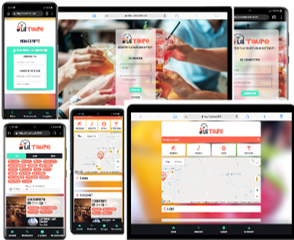
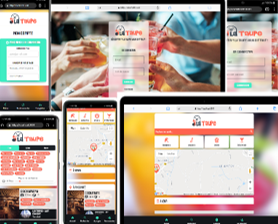
responsive realisations

diff --git a/src/components/realisations/realisations.scss b/src/components/realisations/realisations.scss
@@ -17,6 +17,15 @@
 
     @include tablet {
       font-size: 20px;
+      overflow: hidden;
+    }
+    @include desktop {
+      font-size: 23px;
+    overflow: hidden;
+    }
+    @include laptop {
+      font-size: 45px;
+      margin-top: 3rem;
     }
   }
 
@@ -37,6 +46,7 @@
       margin: 10px 0;
       flex-wrap: wrap;
       justify-content: center;
+      overflow: hidden;
     }
 
    
@@ -53,11 +63,15 @@
       width: 95%;
     }
     @include tablet {
-      width: 100%;
-      margin-top: 1rem;
+      width: 95%;
+      margin-top: 0.5rem;
     }
     @include desktop {
       width: 100%;
+      margin-top: 1rem;
+    }
+    @include laptop{
+      width: 93%;
       margin-top: 1rem;
     }
     .item {
@@ -65,7 +79,6 @@
       height: 260px;
       border-radius: 0px 20px 0px 20px;
       padding: 2px;
-
       margin: 10px 20px;
       display: flex;
       align-items: center;
@@ -80,15 +93,27 @@
       }
 
       @include tablet {
-        width: 200px;
-        height: 130px;
+        width: 240px;
+        height: 234px;
         padding: 0px;
+        margin: 5px 5px;
       }
+
+      
+
       @include desktop {
         width: 280px;
         height: 180px;
         padding: 0px;
       }
+
+      @include laptop {
+        width: 297px;
+        height: 215px;
+        padding: 0px;
+        margin: 10px 10px;
+      }
+     
       a {
         color: white;
         outline: none;
@@ -110,6 +135,9 @@
             position: absolute;
             top: 5px;
           }
+          @include laptop {
+            font-size: 20px;
+          }
 
           @include desktop {
             font-size: 18px;
@@ -118,7 +146,7 @@
         }
         h3:hover {
           border-bottom: 1px solid;
-          background-color: #78e08f;
+          background-color: #d16ba5;
           border-radius: 5px;
           padding: 4px;
           letter-spacing: 3px;
@@ -183,6 +211,9 @@
           font-size: 13px;
           padding: 10px;
         }
+        @include laptop {
+          font-size: 13px;
+        }
       }
       span {
         position: absolute;
@@ -198,13 +229,17 @@
 
         @include tablet {
           padding: 0;
-          font-size: 7px;
+          font-size: 9px;
           position: absolute;
-          bottom: 19px;
+          bottom: 39px;
         }
         @include desktop {
           bottom: 29px;
           font-size: 10px;
+        }
+        @include laptop {
+          font-size: 12px;
+          bottom: 28px;
         }
       }
 
@@ -218,7 +253,7 @@
 
         @include tablet {
           font-size: 9px;
-          visibility: hidden;
+          
         }
         @include desktop {
           bottom: 8px;
@@ -229,6 +264,7 @@
       }
 
       .enlace:hover {
+        font-size: 12px;
         border-bottom: 1px solid;
         position: absolute;
         bottom: 10px;

diff --git a/src/global.scss b/src/global.scss
@@ -1,38 +1,32 @@
 $mainColor: #0e5266;
 
-$width:768px;
-$mobile:480px;
+$width: 768px;
+$mobile: 480px;
 $tablet: 768px;
 $desktop: 1024;
-$desktop-width: 1540px; //1280
+$laptop: 1540px; //1280
 
 // une façon diferent d'utilisation de media queries globalement. il faudra importer le fichier global dans les composants
 @mixin mobile {
-    @media(max-width: #{$mobile}){
-        @content;
-    }
-    
+  @media (max-width: #{$mobile}) {
+    @content;
+  }
 }
-
-// @mixin tablet {
-//   @media(max-width: #{$tablet}){
-//       @content;
-//   }
-  
-// }
 
 @mixin tablet {
-  @media(min-width: #{$mobile}) and (max-width: #{$tablet}){
-      @content;
+  @media (min-width: #{$mobile}) and (max-width: #{$tablet - 1px}) {
+    @content;
   }
-  
 }
 
-
-
 @mixin desktop {
-    @media (min-width: #{$tablet}) and (max-width: #{$desktop - 1px}) {
-      @content;
-    }
+  @media (min-width: #{$tablet}) and (max-width: #{$desktop - 1px}) {
+    @content;
   }
-  
+}
+
+@mixin laptop {
+  @media (min-width: 1023px) and (max-width: 1540px) {
+    @content;
+  }
+}

diff --git a/src/components/topbar/topbar.scss b/src/components/topbar/topbar.scss
@@ -11,7 +11,7 @@
     transition: all 1s ease;
 
     .wrapper {
-        padding: 10px 30px;
+        padding: 5px 30px;
         display: flex;
         align-items: center;
         justify-content: space-between;
@@ -22,6 +22,9 @@
 
         @include tablet {
             padding: 0px;
+        }
+        @include laptop {
+            padding: 5px 30px;
         }
 
         .left {
